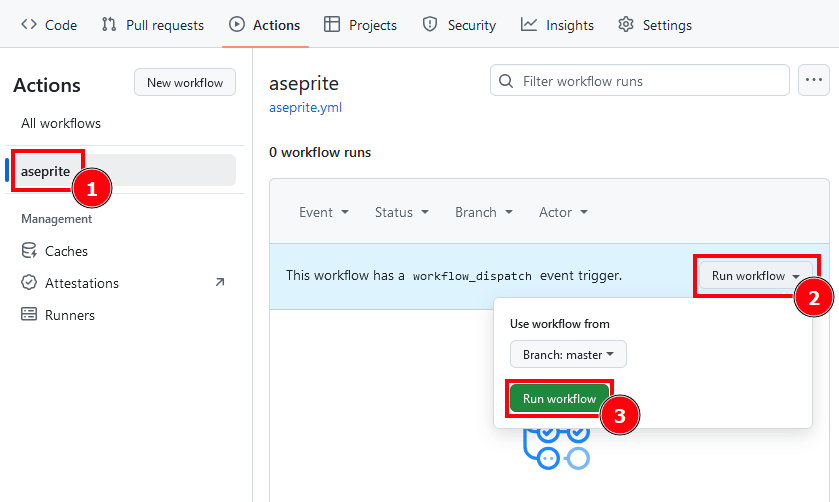
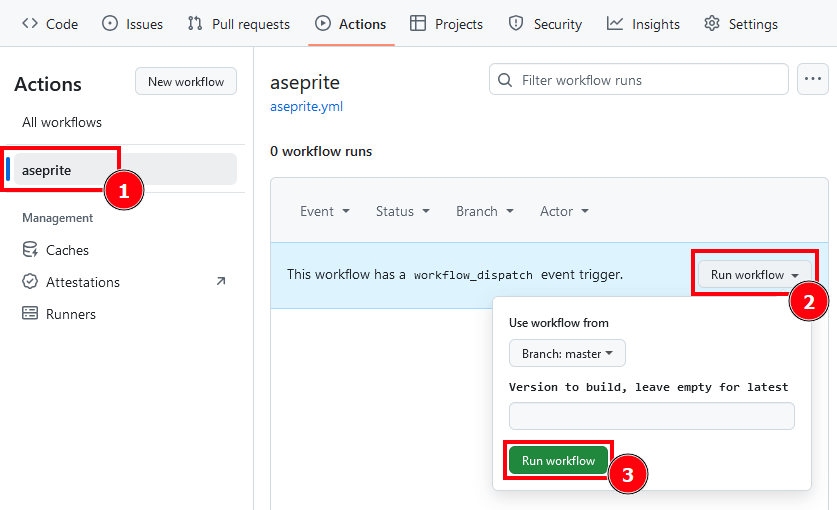
allow to specify which version to build

diff --git a/README.md b/README.md
@@ -13,6 +13,10 @@ Step by step guide to build binaries for latest version:
 
 # 3. Open `aseprite` workflow, and click `Run workflow`
 
+Optionally specify which version of Asprite to build (e.g. v1.3.10) in text field.
+Leave it empty to build latest released version.
+See list of available Aseprite versions [here][versions].
+
 ![step3](images/step3.png)
 
 # 4. Wait ~13min for build to finish, then open latest run
@@ -26,3 +30,4 @@ Step by step guide to build binaries for latest version:
 For building newer aseprite version repeat steps 3 to 5.
 
 [Aseprite]: https://github.com/aseprite/aseprite
+[versions]: https://github.com/aseprite/aseprite/tags
